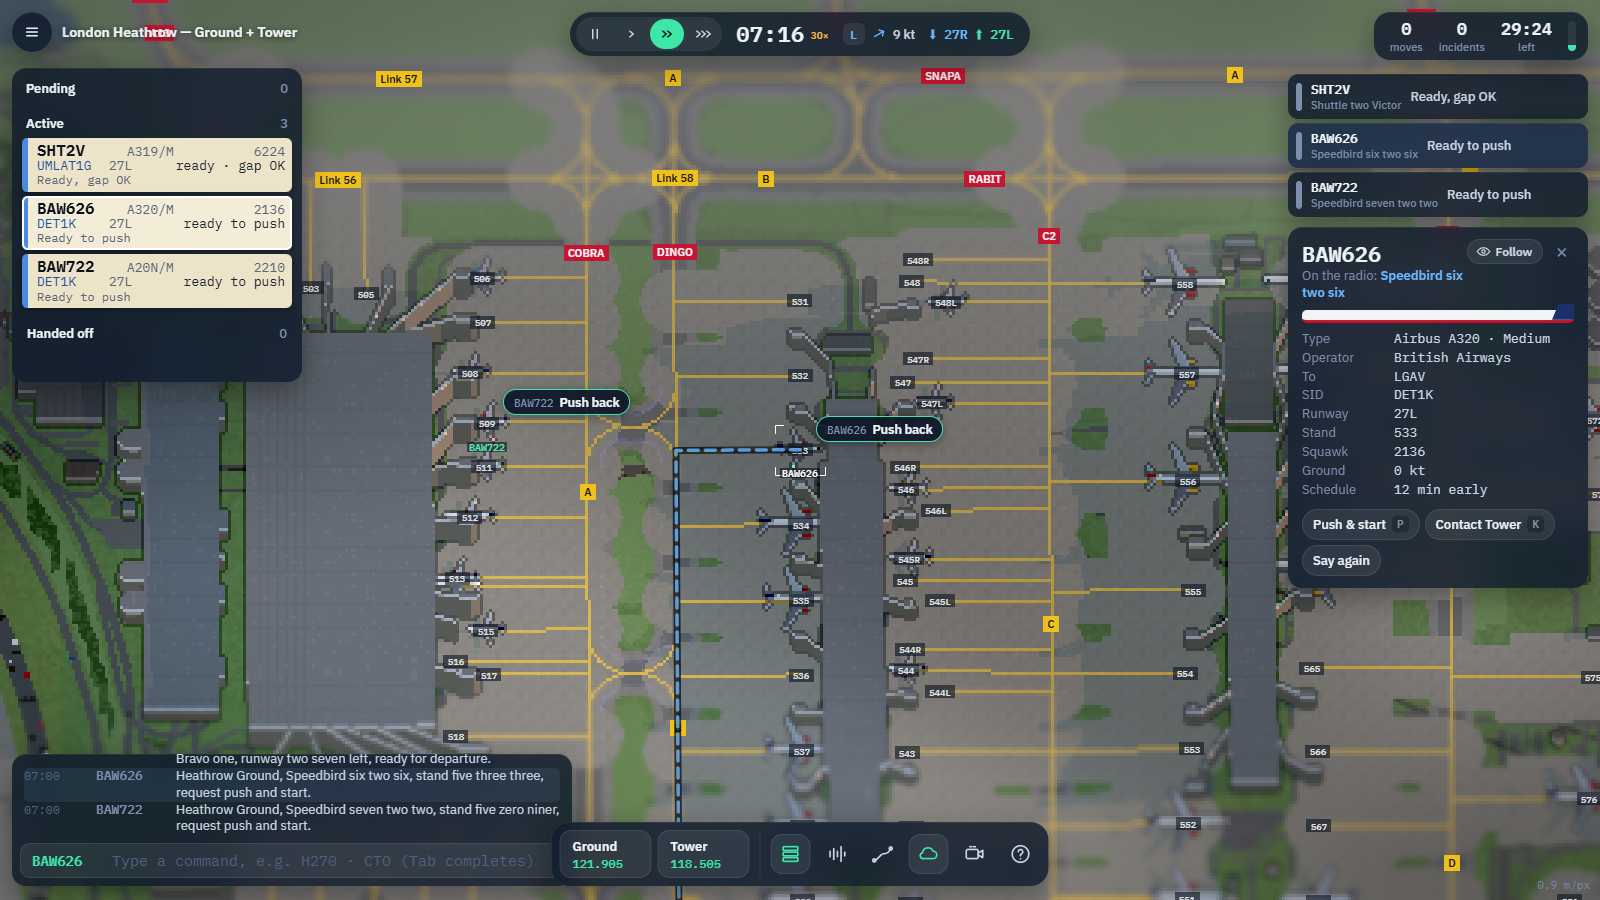
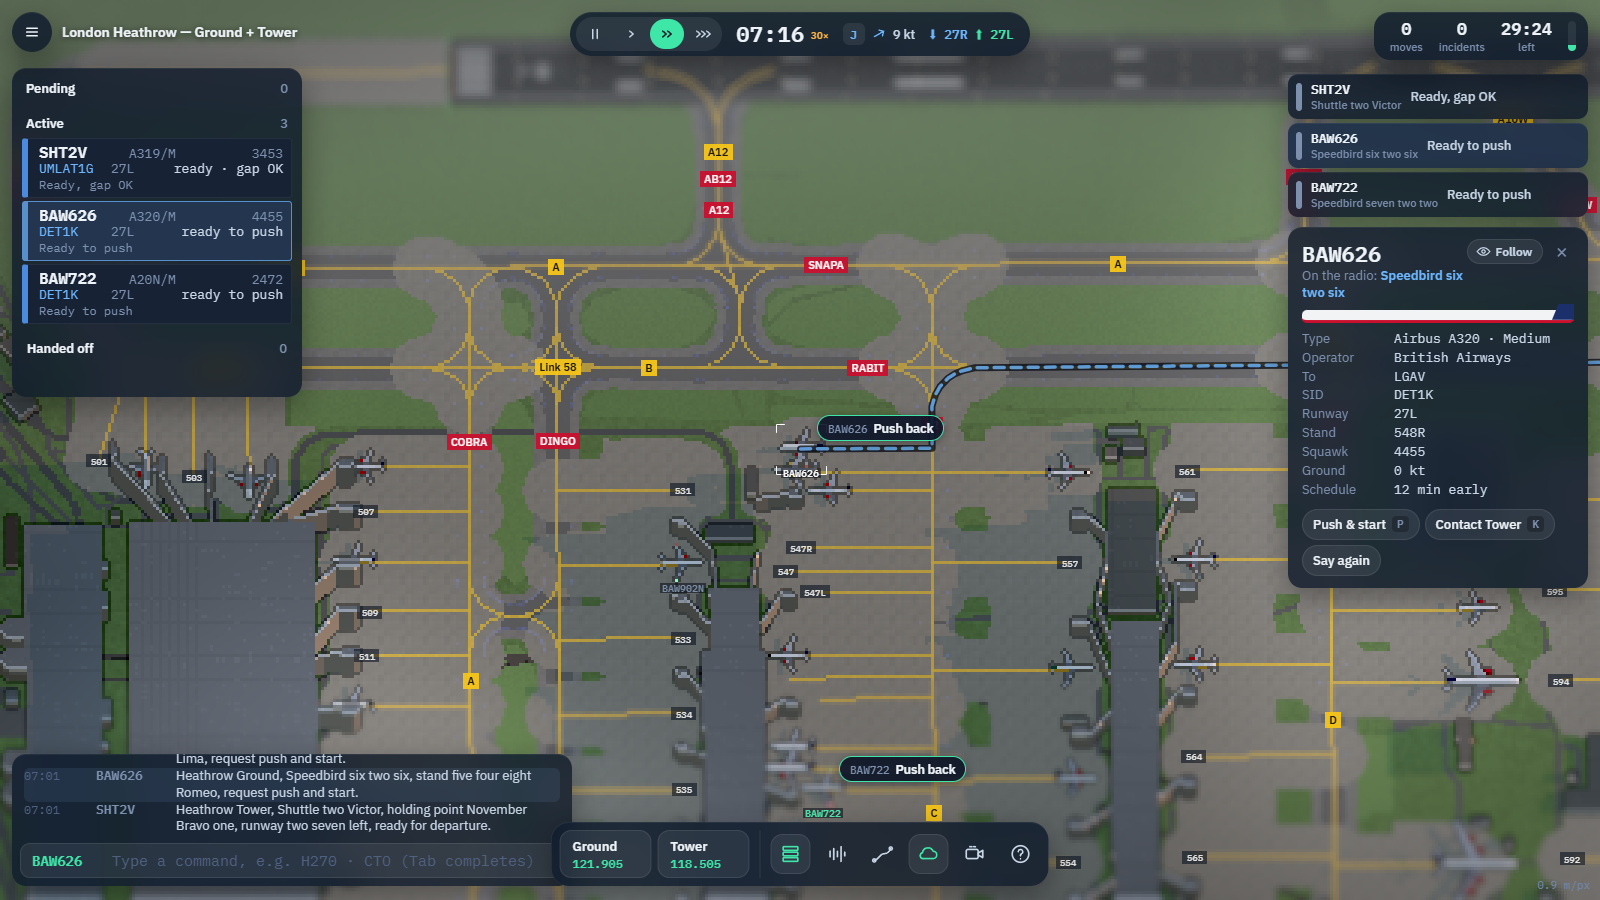
Electronic flight strips (EFPS) on the home screen and in game; fix strip buttons' accessible role

diff --git a/apps/web/src/screens/Menu.svelte b/apps/web/src/screens/Menu.svelte
@@ -63,9 +63,9 @@
       {/if}
     </header>
 
-    <div class="bay" role="list">
+    <nav class="bay" aria-label="Game modes">
       {#each strips as s (s.id)}
-        <button class="strip" role="listitem" style="--edge:{s.edge}" onclick={() => onNav(s.id)}>
+        <button class="strip" style="--edge:{s.edge}" onclick={() => onNav(s.id)}>
           <span class="name">{s.name}</span>
           <span class="box a">{s.a}</span>
           <span class="box b">{s.b}</span>
@@ -74,7 +74,7 @@
           <span class="box e">{s.e}</span>
         </button>
       {/each}
-    </div>
+    </nav>
 
     <nav class="aux">
       <button onclick={() => onNav('settings')}>Settings</button>
@@ -110,23 +110,21 @@
   .atis { margin: 14px 0 0; max-width: 52ch; font: 400 14px/1.55 var(--mono); color: #b9c8de; }
   .atis b { color: var(--amber); font-weight: 600; }
 
-  /* The strip bay: a dark rail with flight progress strips slotted into it. */
-  .bay { position: relative; display: flex; flex-direction: column; gap: 5px; padding: 8px 0 8px 10px; }
-  .bay::before { content: ''; position: absolute; left: 0; top: 0; bottom: 0; width: 4px; border-radius: 2px; background: linear-gradient(#5d6a7d, #39424f); box-shadow: 1px 0 0 rgba(255, 255, 255, 0.08); }
-  .strip { position: relative; display: grid; grid-template-columns: 148px 86px 70px 1fr 64px 54px; align-items: stretch; height: 46px; padding: 0 0 0 10px; border: none; border-radius: 2px;
-    background: #ede3c8; color: #1d2430; text-align: left; cursor: pointer; font: 500 13px var(--mono);
-    box-shadow: 0 1px 0 rgba(0, 0, 0, 0.35), 0 6px 14px rgba(0, 0, 0, 0.28); transition: transform 0.14s ease-out, box-shadow 0.14s; }
-  .strip::before { content: ''; position: absolute; left: 0; top: 0; bottom: 0; width: 8px; background: var(--edge); }
-  .strip:hover, .strip:focus-visible { transform: translateX(14px); box-shadow: 0 1px 0 rgba(0, 0, 0, 0.35), 0 12px 24px rgba(0, 0, 0, 0.4); outline: none; }
-  .strip:focus-visible { box-shadow: 0 0 0 2px var(--accent), 0 12px 24px rgba(0, 0, 0, 0.4); }
-  .strip:active { transform: translateX(10px); }
-  .name { display: flex; align-items: center; padding-left: 8px; font: 600 17px var(--ui); color: #0e131c; }
-  .box { display: flex; align-items: center; padding: 0 9px; border-left: 1px solid rgba(29, 36, 48, 0.28); white-space: nowrap; overflow: hidden; text-overflow: ellipsis; }
-  .box.c { font: 400 13px var(--ui); color: #3a4352; }
-  .box.d, .box.e { justify-content: center; color: #4a5466; }
-  .box.b { justify-content: center; }
+  /* An electronic strip bay (EFPS): a dark touchscreen panel, flat strips, a solid colour block naming each one. */
+  .bay { display: flex; flex-direction: column; gap: 4px; padding: 10px; border-radius: 8px; background: rgba(9, 15, 25, 0.86); border: 1px solid #22314a;
+    box-shadow: 0 18px 40px rgba(0, 0, 0, 0.45); backdrop-filter: blur(6px); }
+  .strip { position: relative; display: grid; grid-template-columns: 140px 84px 70px 1fr 66px 56px; align-items: stretch; height: 44px; padding: 0; border: 1px solid #253650; border-radius: 3px;
+    background: #152133; color: #c9d6e6; text-align: left; cursor: pointer; font: 500 13px var(--mono); overflow: hidden; transition: background 0.1s, border-color 0.1s; }
+  .strip:hover, .strip:focus-visible { background: #1d2d45; border-color: var(--edge); outline: none; }
+  .strip:active { background: #24384f; }
+  .name { display: flex; align-items: center; padding-left: 12px; background: var(--edge); font: 700 15px var(--ui); color: #08101c; }
+  .box { display: flex; align-items: center; padding: 0 10px; border-left: 1px solid #253650; white-space: nowrap; overflow: hidden; text-overflow: ellipsis; }
+  .box.c { font: 400 13px var(--ui); color: #e6edf6; }
+  .box.d, .box.e { justify-content: center; color: #8ea0ba; }
+  .box.b { justify-content: center; color: #e6edf6; }
+  .strip:hover .box.c { color: #fff; }
 
-  .aux { display: flex; align-items: center; gap: 22px; padding-left: 10px; font: 500 14px var(--ui); }
+  .aux { display: flex; align-items: center; gap: 22px; padding-left: 2px; font: 500 14px var(--ui); }
   .aux button { padding: 0; border: none; background: none; color: #c9d6e6; cursor: pointer; font: inherit; border-bottom: 1px solid transparent; }
   .aux button:hover, .aux button:focus-visible { color: #fff; border-bottom-color: currentColor; outline: none; }
   .aux span { color: var(--muted); font-size: 13px; }

diff --git a/apps/web/src/App.svelte b/apps/web/src/App.svelte
@@ -126,7 +126,7 @@
     --bg: #070e1c; --panel: #0d1628; --panel-2: #111d34; --btn: #1a2b47; --line: #26395a; --line-strong: #34496f;
     --ink: #c9d6e6; --ink-strong: #eef3f8; --muted: #7d90ae; --dim: #4f6080;
     --green: #3ee6a8; --green-dim: #2f8f72; --accent: #6cb7ff; --amber: #ffb547; --red: #ff5a5a; --sel: #ffffff; --sel-bg: rgba(143, 199, 255, 0.09);
-    --strip-bg: #ede3c8; --strip-hover: #f3ecd7; --strip-emg: #f6d5cf; --strip-dep: #4a8be0; --strip-arr: #d9a441;
+    --strip-bg: #172234; --strip-hover: #1f2d44; --strip-emg: #3b1c25; --strip-dep: #4a8be0; --strip-arr: #d9a441;
     --ui: 'IBM Plex Sans', system-ui, -apple-system, 'Segoe UI', Roboto, sans-serif;
     --mono: 'IBM Plex Mono', ui-monospace, 'Cascadia Mono', Consolas, monospace;
     --glass: rgba(14, 26, 43, 0.82); --glass-hi: rgba(30, 48, 74, 0.92); --glass-line: rgba(255, 255, 255, 0.09); --knob: rgba(255, 255, 255, 0.07);
@@ -143,15 +143,6 @@
   :global(.app.hc) { --ink: #ffffff; --muted: #c7d3e6; --dim: #9fb0cb; --line: #4a6290; --green: #7dffcf; }
   :global(.app.cb) { --green: #5cc8ff; --green-dim: #3a7fa6; --amber: #ffd23f; --red: #ff6ad5; }
   :global(.app.rm *) { animation: none !important; transition: none !important; }
-  /* Strips are paper: dark ink on buff. */
-  :global(.strip) { color: #1f2633 !important; }
-  :global(.strip b) { color: #0b0f17 !important; }
-  :global(.strip .type), :global(.strip .sq), :global(.strip .rwy) { color: #5c6577 !important; }
-  :global(.strip .route) { color: #1d4f9a !important; }
-  :global(.strip .st) { color: #1f2633 !important; }
-  :global(.strip .need.routine) { color: #5c6577 !important; }
-  :global(.strip .need.urgent) { color: #a8650a !important; }
-  :global(.strip .need.emergency) { color: #c0262d !important; }
   .loading { height: 100vh; display: flex; flex-direction: column; gap: 14px; align-items: center; justify-content: center; font: 600 15px var(--ui); color: var(--green); }
   .lost { position: fixed; inset: 0; z-index: 80; background: rgba(5, 10, 20, 0.75); display: flex; align-items: center; justify-content: center; }
   .lost .box { width: min(520px, 92vw); background: var(--panel-2); border: 1px solid var(--amber); padding: 18px 20px; font: 14px var(--ui); }

diff --git a/apps/web/src/game/StripBay.svelte b/apps/web/src/game/StripBay.svelte
@@ -103,11 +103,12 @@
   h3 span { color: var(--muted); font-weight: 500; }
   .group.drop { min-height: 48px; border: 1px dashed transparent; border-radius: 8px; }
   .group.drop:hover { border-color: var(--line); }
-  .strip { display: block; width: 100%; text-align: left; margin: 0 0 4px; padding: 4px 7px 5px 9px; border: none; border-left: 6px solid var(--strip-dep);
-    background: var(--strip-bg); color: var(--ink); font: 13px/1.05 var(--mono); cursor: pointer; border-radius: 6px; box-shadow: 0 2px 6px rgba(0, 0, 0, 0.3); }
+  /* Electronic flight strips (EFPS): flat, dark, a solid colour block for the flight's type. */
+  .strip { display: block; width: 100%; text-align: left; margin: 0 0 3px; padding: 5px 8px 6px 11px; border: 1px solid rgba(255, 255, 255, 0.06); border-left: 6px solid var(--strip-dep);
+    background: var(--strip-bg); color: var(--ink); font: 13px/1.1 var(--mono); cursor: pointer; border-radius: 3px; transition: background 0.1s; }
   .strip.arr { border-left-color: var(--strip-arr); }
   .strip:hover { background: var(--strip-hover); }
-  .strip.sel { outline: 2px solid var(--sel); outline-offset: -2px; }
+  .strip.sel { background: #24364f; border-color: rgba(108, 183, 255, 0.7); }
   .strip.emg { border-left-color: var(--red); background: var(--strip-emg); }
   .strip.alert { box-shadow: inset 0 0 0 1px var(--amber); }
   .strip.dim { opacity: 0.62; }
@@ -115,7 +116,7 @@
   .row1 b { font-weight: 600; font-size: 16px; color: var(--ink-strong); min-width: 82px; }
   .type, .sq { color: var(--muted); }
   .sq { margin-left: auto; }
-  .rb { font: italic 500 11px var(--ui); color: #2a6fb8; white-space: nowrap; }
+  .rb { font: italic 500 11px var(--ui); color: var(--accent); white-space: nowrap; }
   .route { color: var(--accent); min-width: 64px; }
   .rwy { color: var(--muted); min-width: 28px; }
   .st { margin-left: auto; color: var(--ink); text-align: right; }
